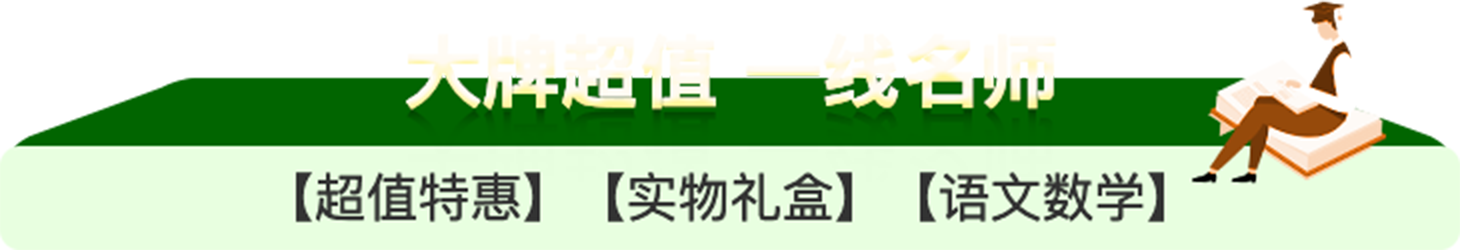
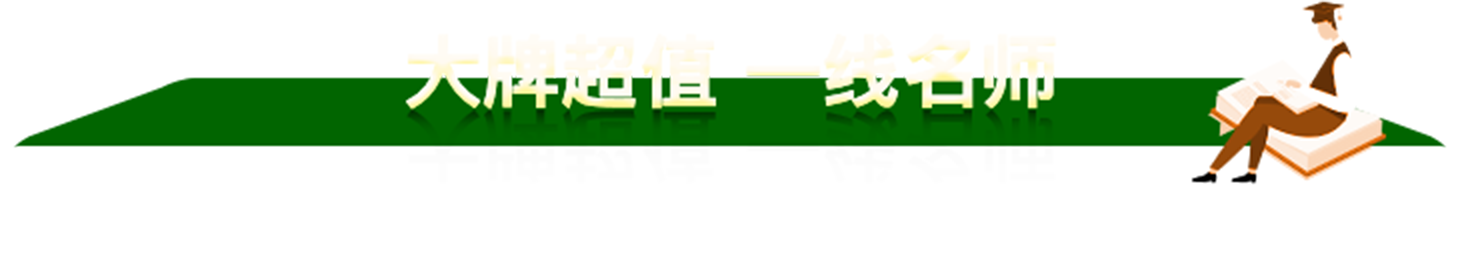
shibaiyong change

diff --git a/distributemall/html/index.html b/distributemall/html/index.html
@@ -97,8 +97,37 @@
 				font-size:0.14rem;
 				color:rgba(255,255,255,1);
 			}
+			
+			.sectionone .img-title span{
+				display:inline-block;
+				font-size:0.13rem;
+				color:rgba(51,51,51,1);
+				line-height: 0.24rem;
+				font-weight: bold;
+			}
+			
+			.sectionone .img-title{
+				background:url(../img/20@2x.png) no-repeat center center;
+				background-size: 100% 100%;
+				display: flex;
+				justify-content: center;
+				align-items:flex-end;
+			}
+			.sectiontwo .img-title{
+				font-size:0;
+				height:0.55rem;
+				background:url(../img/21@2x.png) no-repeat center center;
+				background-size: 100% 100%;
+			}
+			.sectionthree .img-title{
+				background:url(../img/22@2x.png) no-repeat center center;
+				background-size: 100% 100%;
+			}
+			
 			.img-title{
 				margin-top:0.2rem;
+				height:0.61rem;
+				
 			}
 			.img-title.one{
 				margin-top:4.2rem;
@@ -125,7 +154,8 @@
 			
 			<div class="sectionone cleartop">
 				<div class="img-title one">
-					<img src="../img/20@2x.png" />
+					<!-- <img src="../img/20@2x.png" /> -->
+					<span>【超值特惠】【实物礼盒】【语文阅读】</span>
 				</div>
 				<div class="topic_goods">
 					<div class="topic_goods_item">
@@ -163,7 +193,7 @@
 			
 			<div class="sectiontwo cleartop">
 				<div class="img-title">
-					<img src="../img/21@2x.png" />
+					<!-- <img src="../img/21@2x.png" /> -->
 				</div>
 				<div class="topic_goods">
 					<div class="topic_goods_item">
@@ -184,7 +214,7 @@
 			
 			<div class="sectionthree">
 			<div class="img-title">
-				<img src="../img/22@2x.png" />
+				<!-- <img src="../img/22@2x.png" /> -->
 			</div>
 			<div class="topic_goods">
 			

diff --git a/AgentManagementBack/js/updatepassword.js b/AgentManagementBack/js/updatepassword.js
@@ -37,10 +37,10 @@ $("#passwordform").validate({
 });
 
 $.validator.addMethod("checkpassword", function (value, element) {
-    var checkpassword1 = /^(?![0-9]+$)(?![a-zA-Z]+$)[0-9A-Za-z]{8,16}$/i
+    var checkpassword1 = /^(?![0-9A-Za-z]+$)\w{8,16}$/i
     var checkpassword2 = /^(?![^a-zA-Z]+$)(?!\D+$)[0-9a-zA-Z]{6,35}$/i
 	var checkpassword3 = /Windows(?=95|98|NT|2000)/i
-    return this.optional(element) || (checkpassword3.test(value))
+    return this.optional(element) || (checkpassword1.test(value))
 }, "*新密码必须至少八个字节，且同时包含字母和数字！")
 //2. (?![^a-zA-Z]+$)
 //断言此位置后,字符串结尾之前,所有的字符不能全部由数字（[^a-zA-Z]表示非英文字母,结合下文,这里匹配数字）组成.
